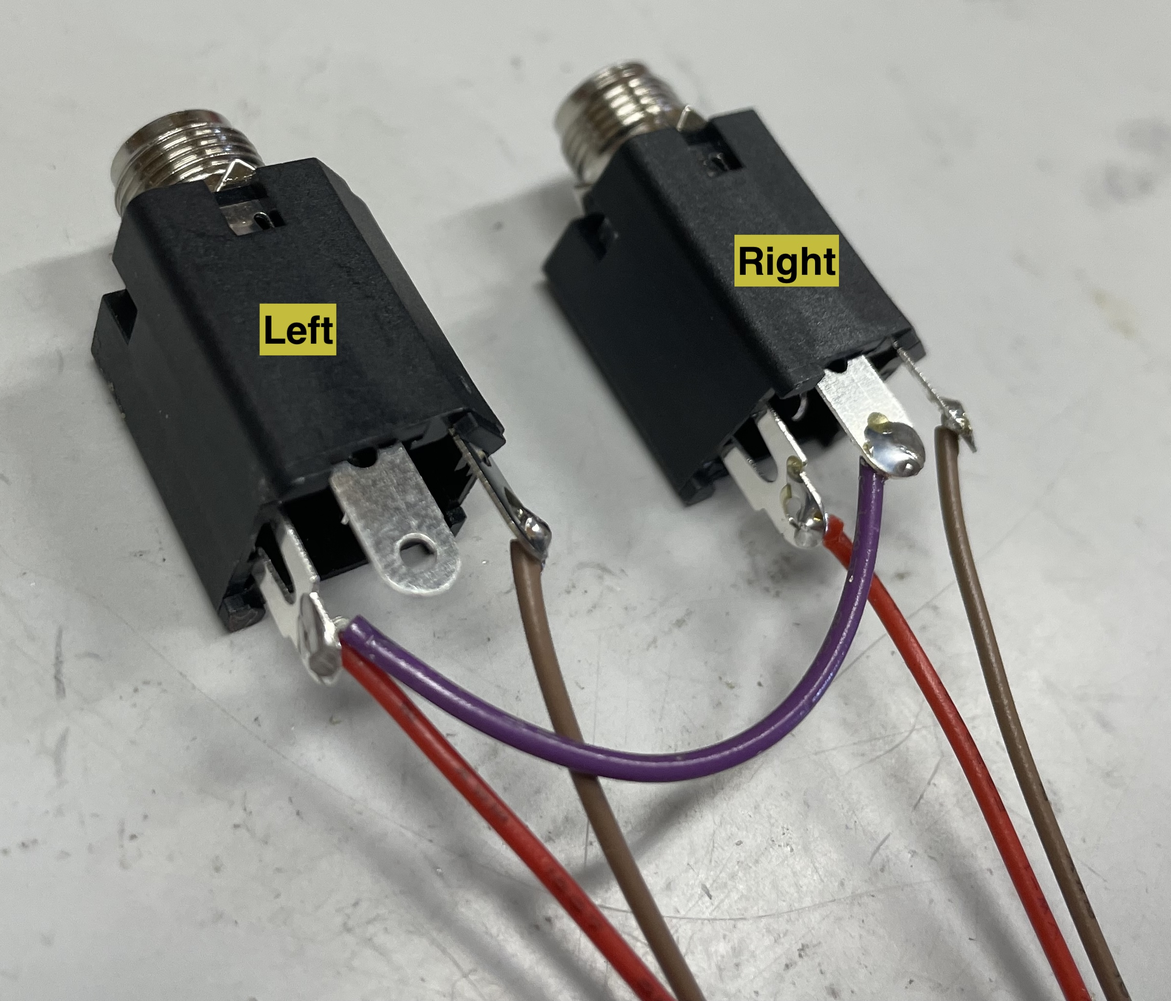
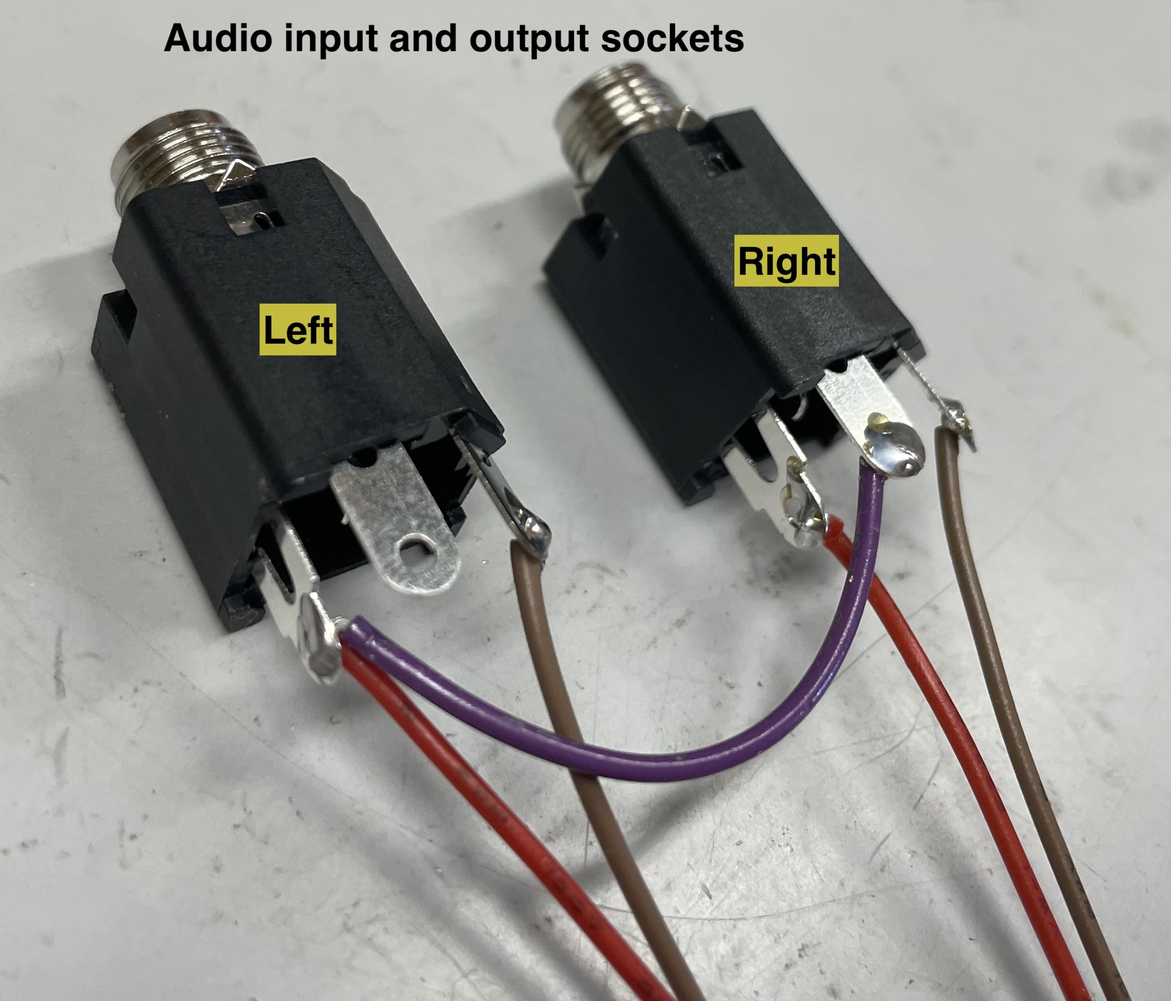
build notes edits

Changed region(s): [[0.1234, 0.0312, 0.648, 0.0624]]

diff --git a/build_notes_etc/PCB_Build_Notes.md b/build_notes_etc/PCB_Build_Notes.md
@@ -21,7 +21,7 @@ To-do: make a guide for connecting any analog inputs to these pins.
 
 
 ## Wiring the Molex connectors
-For ease of build I used pre-wired 6-way Molex connectors for the footswitch controls. I also use pre-wired 2-way connectors for Power and Audio input/output. These attach to standard molex pins on the PCB. They use standard 2.54mm hole distances, so other methods are possible.
+For ease of build I used pre-wired 6-way Molex connectors for the footswitch controls. I also use pre-wired 2-way connectors for Power and Audio input/output. These attach to standard molex pins on the PCB. They use standard 2.54mm hole distances, so other methods are possible. I find the Molex system to be very useful in terms of being able to mount the connectors and Gametrak separately in the box while retaining stability once they are plugged in.
 
 ## Note! Possibly confusing Molex footprint!
 The PCB version 1.2 (labeled October 2026) has a possibly confusing screenprint illustration for the audio input and output pins. The outline implies that the Molex should be mounted with the back support facing the board. If you buy the pre-crimped 2-pin cables that are linked on the BOM, and you want to color code the brown cables to ground, you should actually mount the Molex pins in the opposite direction. This will ensure that the red wires are carrying signal and the brown wires are carrying ground. The "-" symbol on the board is indicating the correct pin for ground. 
@@ -36,9 +36,9 @@ Here are some completed STR-500 PCBs (without Seed microcontrollers) for referen
 
 
 ## Audio Inputs and Outputs (these are identical)
-The audio input and output are both split into left and right, and each input and output channel have an accompanying ground. In the STR-500 code there is no switching between mono and stereo, it is always running both channels simultaneously. That means if you want to just stay in mono you could just use the Left (or Right) input an use the Left (or Right) input.
+The audio input and output are both split into left and right, and each input and output channel have an accompanying ground. In the STR-500 code there is no switching between mono and stereo, it is always running both channels simultaneously. That means if you want to just stay in mono you could just use the Left (or Right) input and use the Left (or Right) input.
 
-I, however, personally prefer to have the input and output channels switchable between mono and stereo. To achieve this in the simplest and most flexible way possible, I do the switching using switchable jacks such as the ones listed in the BOM. 
+I, however, personally prefer to have both the input and output channels switchable between mono and stereo. To achieve this in the simplest and most flexible way possible, I do the switching using switchable jacks such as the ones listed in the BOM. 
 
 For each channel, input and output, the sockets have their signal (tip) pins connected to the signal pin on the PCB, and their grounds connected to the ground pin (labeled "-" on the board). The switching pin for sockets for the Right channels (input and output) are connected to the signal pins on the Left channel. Thus, when nothing is plugged into the Right channel, the signal going to (or from) the Right channel is routed directly to the Left channel.
 
@@ -77,6 +77,13 @@ Be sure to mount the molex socket in the correct orientation to ensure that the 
 
 ## Capacitors
 These are kind of optional, they should theoretically lessen the noise on the audio output. Different values may give you different results, and the audio will work perfectly fine without them (albeit with some noise). 
+
+## Power
+The power system is extremely simple, using just a single diode for polarity safety. I use a standard 2.1mm DC socket connected to the 2-pin molex on the board. **Be very certain to connect the polarity correctly**. The +Vin pin is clearly marked on the PCB. 
+
+The diode and the toggle switch are required when using the molex pin power input. You can of course bypass these if you really want!
+
+You can also power the whole thing through USB by simply plugging in the Seed using a standard USB-C (for the Seed3) or micro USB (for the Seed2) cable. If you use USB power the power switch and diode will not work. 
 
 ## Buttons
 I use nice MEC buttons for the bigger buttons. The smaller buttons are generic 6x6x13 tactile buttons, you can probably find different ones from the ones on the BOM. 
